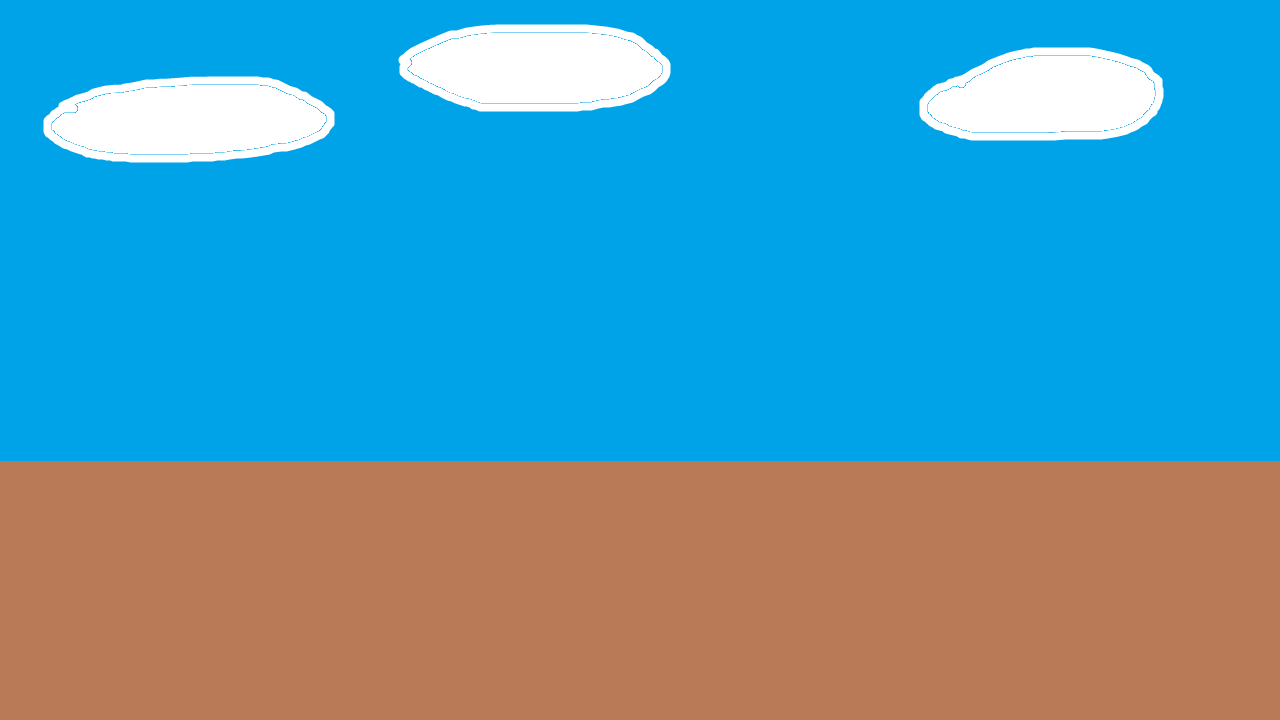
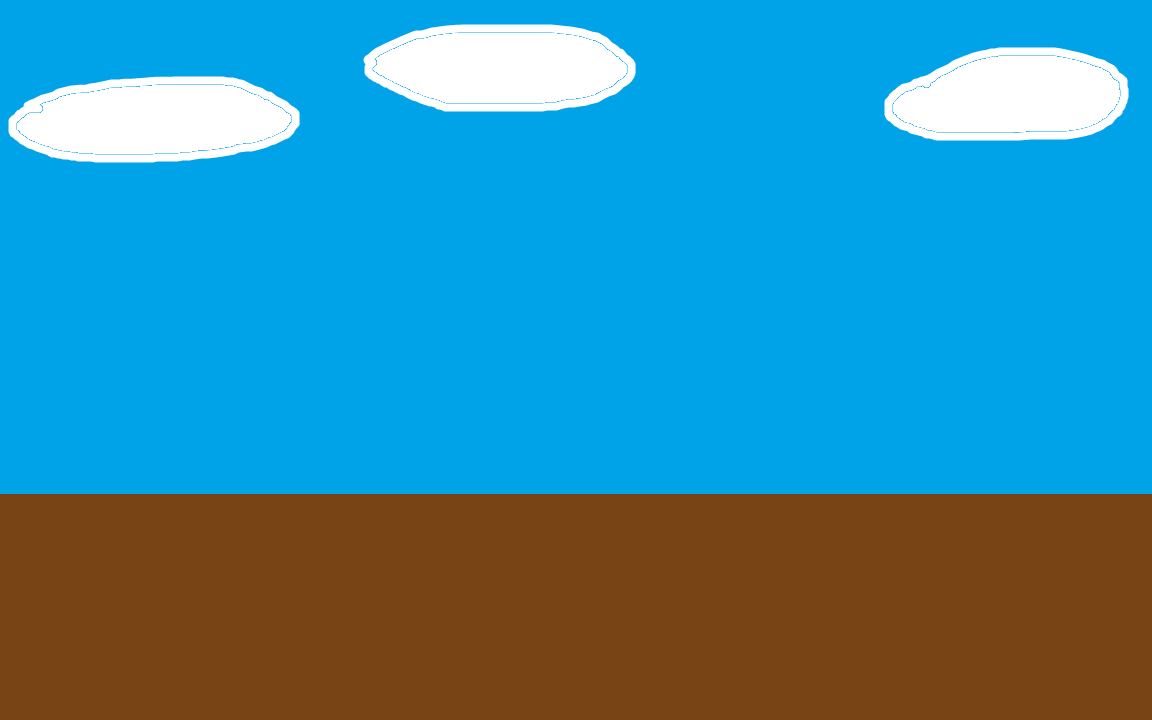
add GameMap.cpp GameMap.h, add loadMap function, loadTileMat function

diff --git a/MarioTeachesTyping/main.cpp b/MarioTeachesTyping/main.cpp
@@ -14,13 +14,18 @@ bool init() {
 		success = false;
 	} else {
 		//Set texture filtering to linear
-		if ( !SDL_SetHint( SDL_HINT_RENDER_SCALE_QUALITY, "1" ) )
-		{
+		if ( !SDL_SetHint( SDL_HINT_RENDER_SCALE_QUALITY, "1" ) ) {
+
 			printf( "Warning: Linear texture filtering not enabled!" );
 		}
 
 		//Create window
-		gWindow = SDL_CreateWindow( "Mario teaches typing", SDL_WINDOWPOS_UNDEFINED, SDL_WINDOWPOS_UNDEFINED, SCREEN_WIDTH, SCREEN_HEIGHT, SDL_WINDOW_SHOWN );
+		gWindow = SDL_CreateWindow( "Mario teaches typing", 
+                                    SDL_WINDOWPOS_UNDEFINED, 
+                                    SDL_WINDOWPOS_UNDEFINED, 
+                                    SCREEN_WIDTH, 
+                                    SCREEN_HEIGHT, 
+                                    SDL_WINDOW_SHOWN );
 		if ( gWindow == NULL ) {
 			printf( "Window could not be created! SDL Error: %s\n", SDL_GetError() );
 			success = false;
@@ -51,7 +56,7 @@ bool loadBackground () {
 
     bool success = true;
 
-    if ( !gBackground.loadFromFile(gRenderer, "media/image/background.png" ) ) {
+    if ( !gBackground.loadMedia(gRenderer, "media/image/background.png" ) ) {
 		printf( "Failed to load background' texture image!\n" );
 		success = false;
 	}
@@ -98,11 +103,9 @@ int main( int argc, char* args[] ) {
     // while app is running
     while (!quit) {
 
-        while( SDL_PollEvent( &e ) != 0 )
-        {
+        while( SDL_PollEvent( &e ) != 0 ) {
             //User requests quit
-            if( e.type == SDL_QUIT )
-            {
+            if ( e.type == SDL_QUIT ) {
                 quit = true;
             }
         }

diff --git a/MarioTeachesTyping/BaseObj.cpp b/MarioTeachesTyping/BaseObj.cpp
@@ -17,7 +17,7 @@ BaseObj::~BaseObj () {
 
 }
 
-bool BaseObj::loadFromFile(SDL_Renderer* renderer, string path ) {
+bool BaseObj::loadMedia(SDL_Renderer* renderer, string path ) {
 
 	//Get rid of preexisting texture
 	free();
@@ -27,23 +27,17 @@ bool BaseObj::loadFromFile(SDL_Renderer* renderer, string path ) {
 
 	//Load image at specified path
 	SDL_Surface* loadedSurface = IMG_Load( path.c_str() );
-	if( loadedSurface == NULL )
-	{
+	if ( loadedSurface == NULL ) {
 		printf( "Unable to load image %s! SDL_image Error: %s\n", path.c_str(), IMG_GetError() );
-	}
-	else
-	{
+	} else {
 		//Color key image
 		SDL_SetColorKey( loadedSurface, SDL_TRUE, SDL_MapRGB( loadedSurface->format, 0, 0xFF, 0xFF ) );
 
 		//Create texture from surface pixels
         newTexture = SDL_CreateTextureFromSurface( renderer, loadedSurface );
-		if( newTexture == NULL )
-		{
+		if ( newTexture == NULL ) {
 			printf( "Unable to create texture from %s! SDL Error: %s\n", path.c_str(), SDL_GetError() );
-		}
-		else
-		{
+		} else {
 			//Get image dimensions
 			width = loadedSurface->w;
 			height = loadedSurface->h;
@@ -53,7 +47,6 @@ bool BaseObj::loadFromFile(SDL_Renderer* renderer, string path ) {
 		SDL_FreeSurface( loadedSurface );
 	}
 
-	//Return success
 	obj = newTexture;
 	return obj != NULL;
 
@@ -62,8 +55,7 @@ bool BaseObj::loadFromFile(SDL_Renderer* renderer, string path ) {
 void BaseObj::free () {
 
 	//Free texture if it exists
-	if( obj != NULL )
-	{
+	if ( obj != NULL ) {
 		SDL_DestroyTexture( obj );
 		obj = NULL;
 		width = 0;

diff --git a/MarioTeachesTyping/GameMap.cpp b/MarioTeachesTyping/GameMap.cpp
@@ -1,0 +1,69 @@
+#include "GameMap.h"
+
+bool GameMap::loadMap(string path) {
+
+    // initialize success
+    bool success = true;
+
+    // open file
+    ifstream inFile;
+    inFile.open(path.c_str(), ios::in);
+
+    if (!inFile) {
+
+        printf("Failed to open file! %s\n");
+        success = false;
+
+    }
+    
+    map.maxX = 0;
+    map.maxY = 0;
+
+    // read file
+    for (int i = 0; i < MAX_Y; i++) {
+        for (int j = 0; j < MAX_X; j++) {
+
+            inFile >> map.tiles[i][j];
+            int val = map.tiles[i][j];
+            if (val > 0) {
+
+                if (j > maxX) map.maxX = j;
+                if (i > maxY) map.maxy = i;
+
+            }
+
+        }
+    }
+
+    // close file
+    inFile.close();
+
+    map.maxX = (map.maxX + 1) * TILE_SIZE;
+    map.maxy = (map.maxy + 1) * TILE_SIZE;
+
+    map.x = 0;
+    map.y = 0;
+
+    // save path
+    map.path = path;
+
+    return success;
+
+}
+
+bool GameMap::loadTileMat(SDL_Renderer* renderer, string path) {
+
+    // initialize success flag
+    bool success = true;
+
+    // load tile mat
+    if (!tileMat.loadMedia(renderer, path.c_str())) {
+
+        printf("Failed to load tile mat! %s\n", SDL_GetError(), IMG_GetError);
+        success = false;
+
+    }
+
+    return success;
+
+}

diff --git a/MarioTeachesTyping/CommonFunc.h b/MarioTeachesTyping/CommonFunc.h
@@ -5,11 +5,12 @@
 #include <SDL.h>
 #include <SDL_Image.h>
 #include <string>
+#include <fstream>
 
 using namespace std;
 
-// screen dimention constants
-const int SCREEN_WIDTH = 1280;
+// screen dimension constants
+const int SCREEN_WIDTH = 1152;
 const int SCREEN_HEIGHT = 720;
 
 // the window'll be rendering
@@ -17,6 +18,31 @@ static SDL_Window* gWindow = NULL;
 
 // the window renderer
 static SDL_Renderer* gRenderer = NULL;
+
+// dimension of tile
+#define TILE_SIZE 48;
+
+// number of tile on width
+#define MAX_X 1200;
+// number of tile on height
+#define MAX_Y 15;
+
+typedef struct Map {
+
+    // location of tile 
+    int x;
+    int y;
+
+    // index of tile
+    int maxX;
+    int maxY;
+
+    // status of tile
+    int tiles[MAX_Y][MAX_X];
+
+    string fileName;
+
+};
 
 
 #endif

diff --git a/MarioTeachesTyping/GameMap.h b/MarioTeachesTyping/GameMap.h
@@ -1,0 +1,45 @@
+#ifndef GAME_MAP_H
+#define GAME_MAP_H
+
+#include "CommonFunc.h"
+#include "BaseObj.h"
+
+class TileMat :: public BaseObj {
+
+    public:
+        
+        TileMat() {;}
+        ~TileMat() {;}
+
+};
+
+class GameMap {
+
+    public:
+
+        GameMap() {;}
+        ~GameMap() {;}
+
+        // load map from file
+        bool loadMap(string path);
+
+        // load tile mat image
+        bool loadTileMat(SDL_renderer* renderer);
+
+        // draw tile on map
+        bool drawMap(SDL_renderer* renderer, string path);
+
+    private:
+
+        // initialize map
+        Map map;
+
+        // initialize tile mat
+        TileMat tileMat;
+
+        // path to file
+        string path;
+
+};
+
+#endif

diff --git a/MarioTeachesTyping/BaseObj.h b/MarioTeachesTyping/BaseObj.h
@@ -14,7 +14,7 @@ class BaseObj {
         ~BaseObj();
 
         // load media from file
-        bool loadFromFile(SDL_Renderer* renderer, string path);
+        bool loadMedia(SDL_Renderer* renderer, string path);
 
         // render obj
         void render(int x, int y, SDL_Renderer* renderer);
@@ -22,7 +22,7 @@ class BaseObj {
         // deallocates obj
         void free();
 
-        // get obj dimention
+        // get obj dimension
         int getWidth();
         int getHeight();
 
